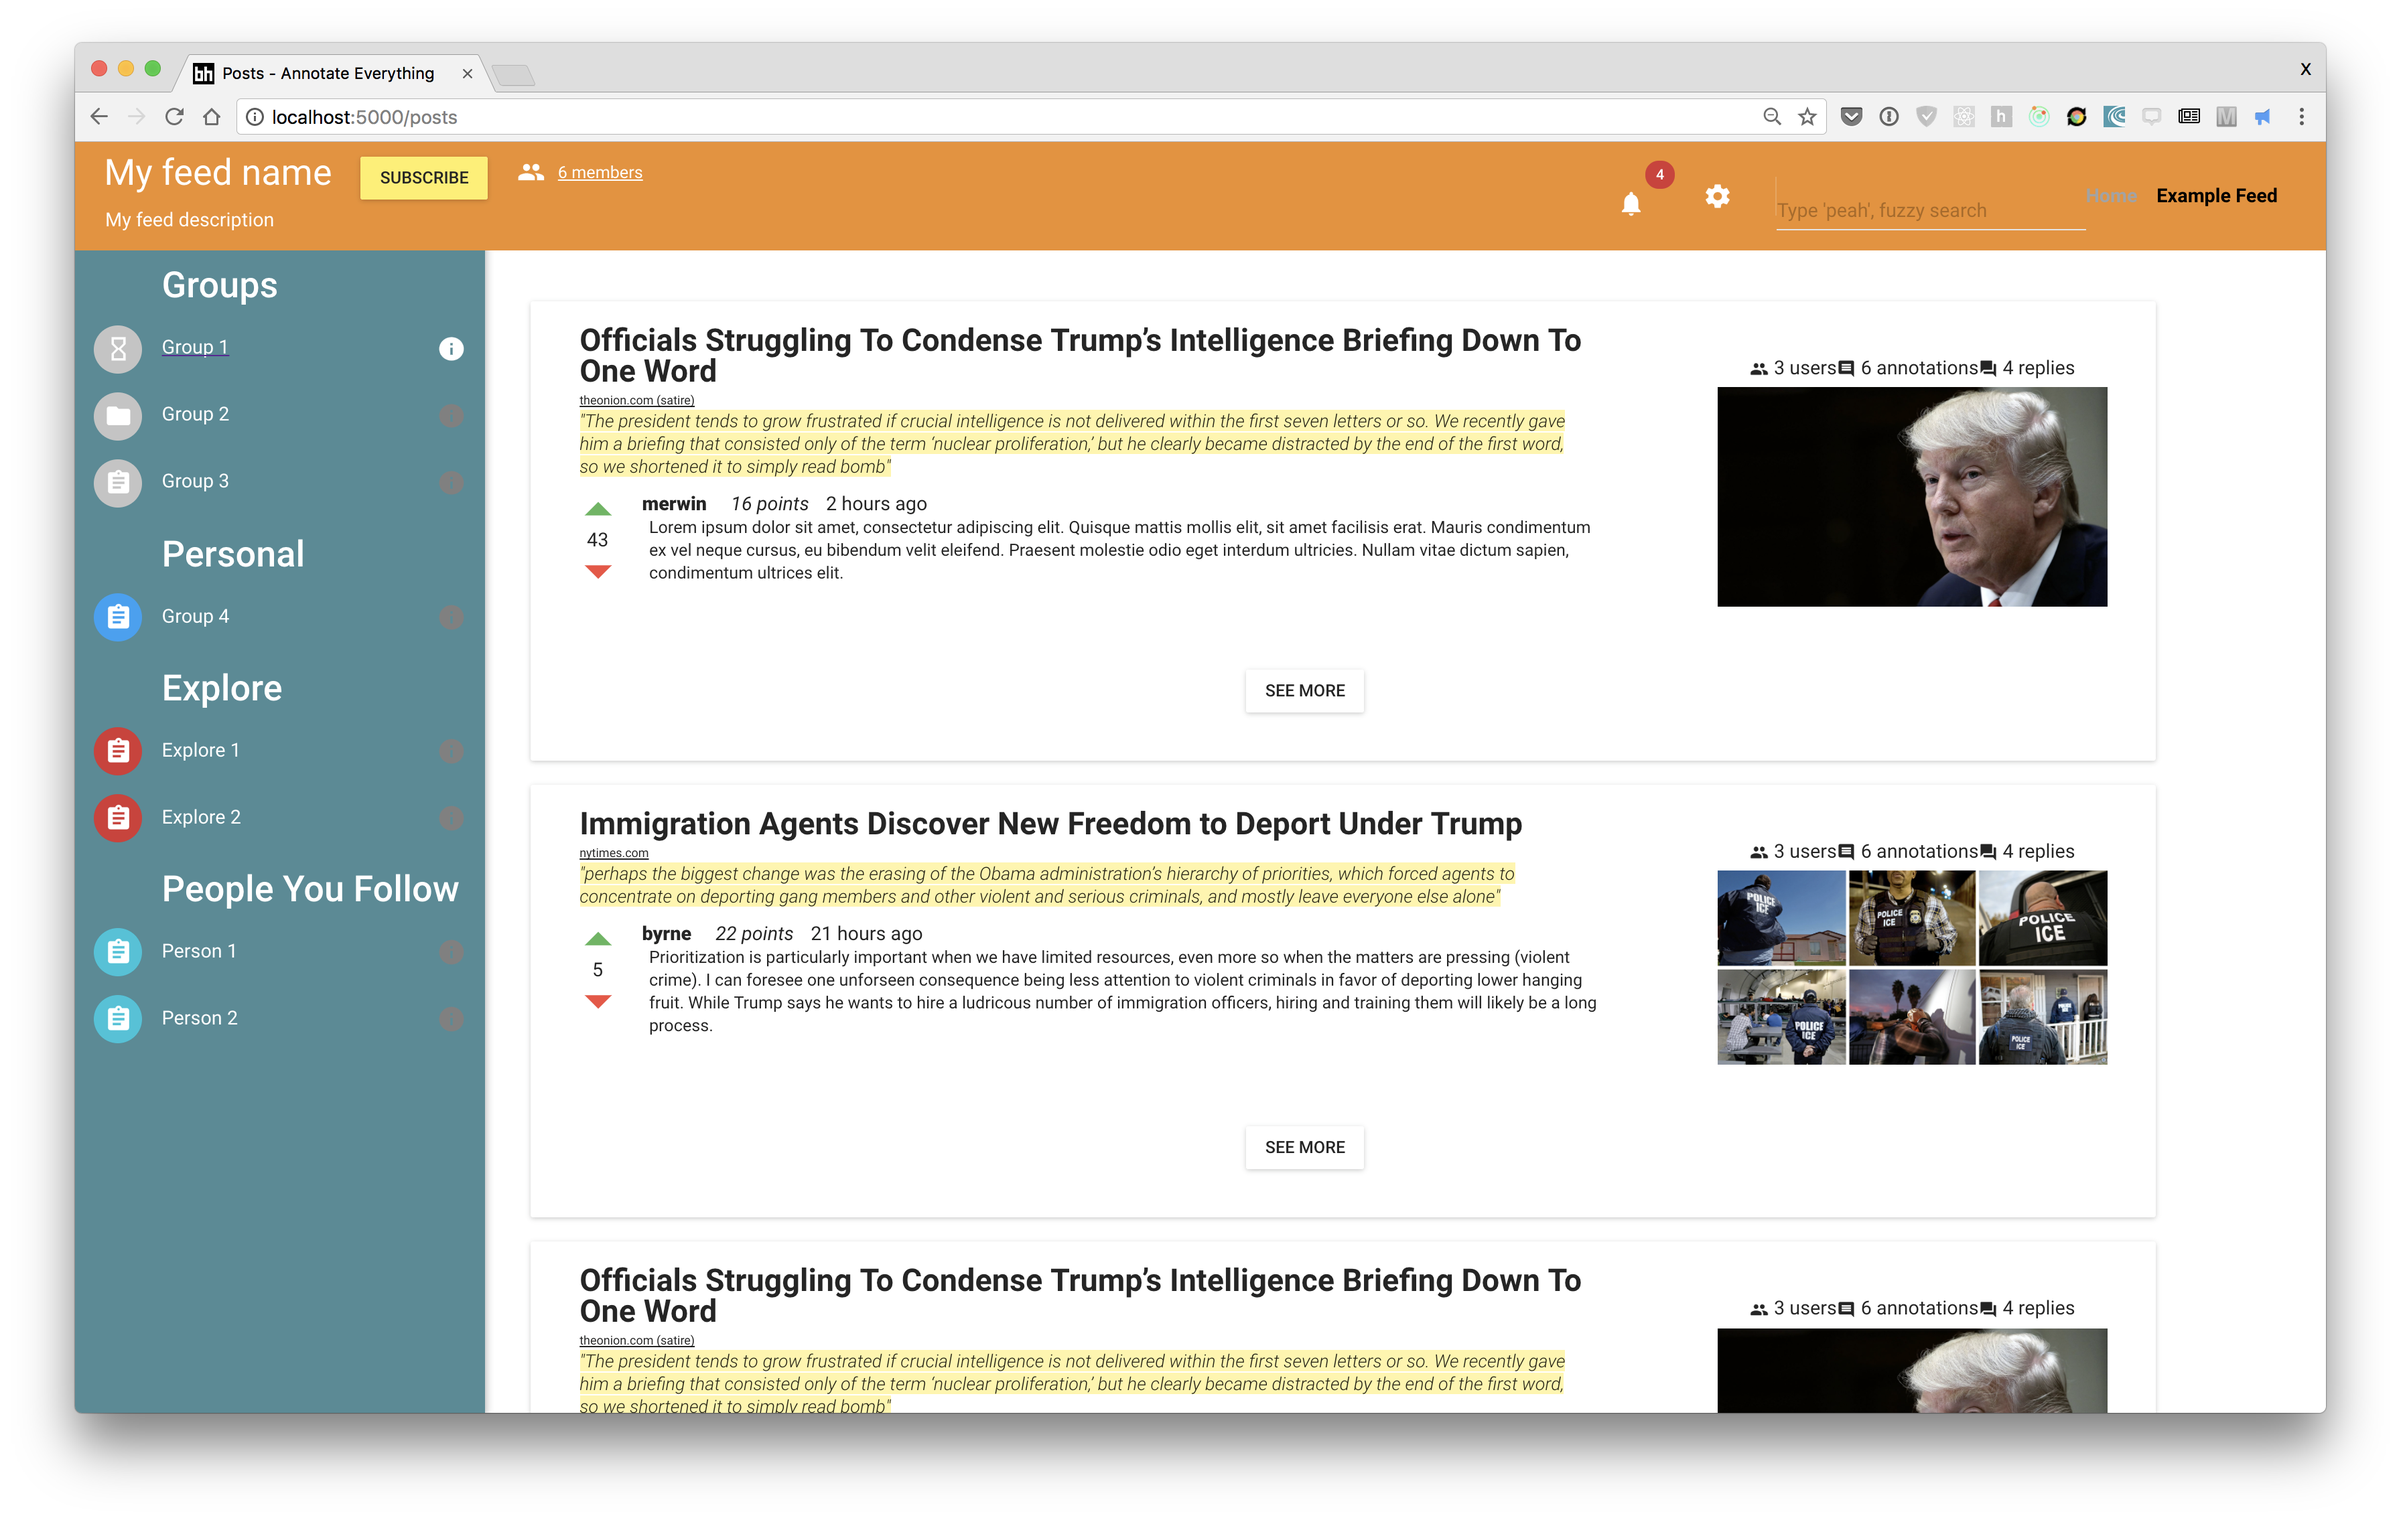
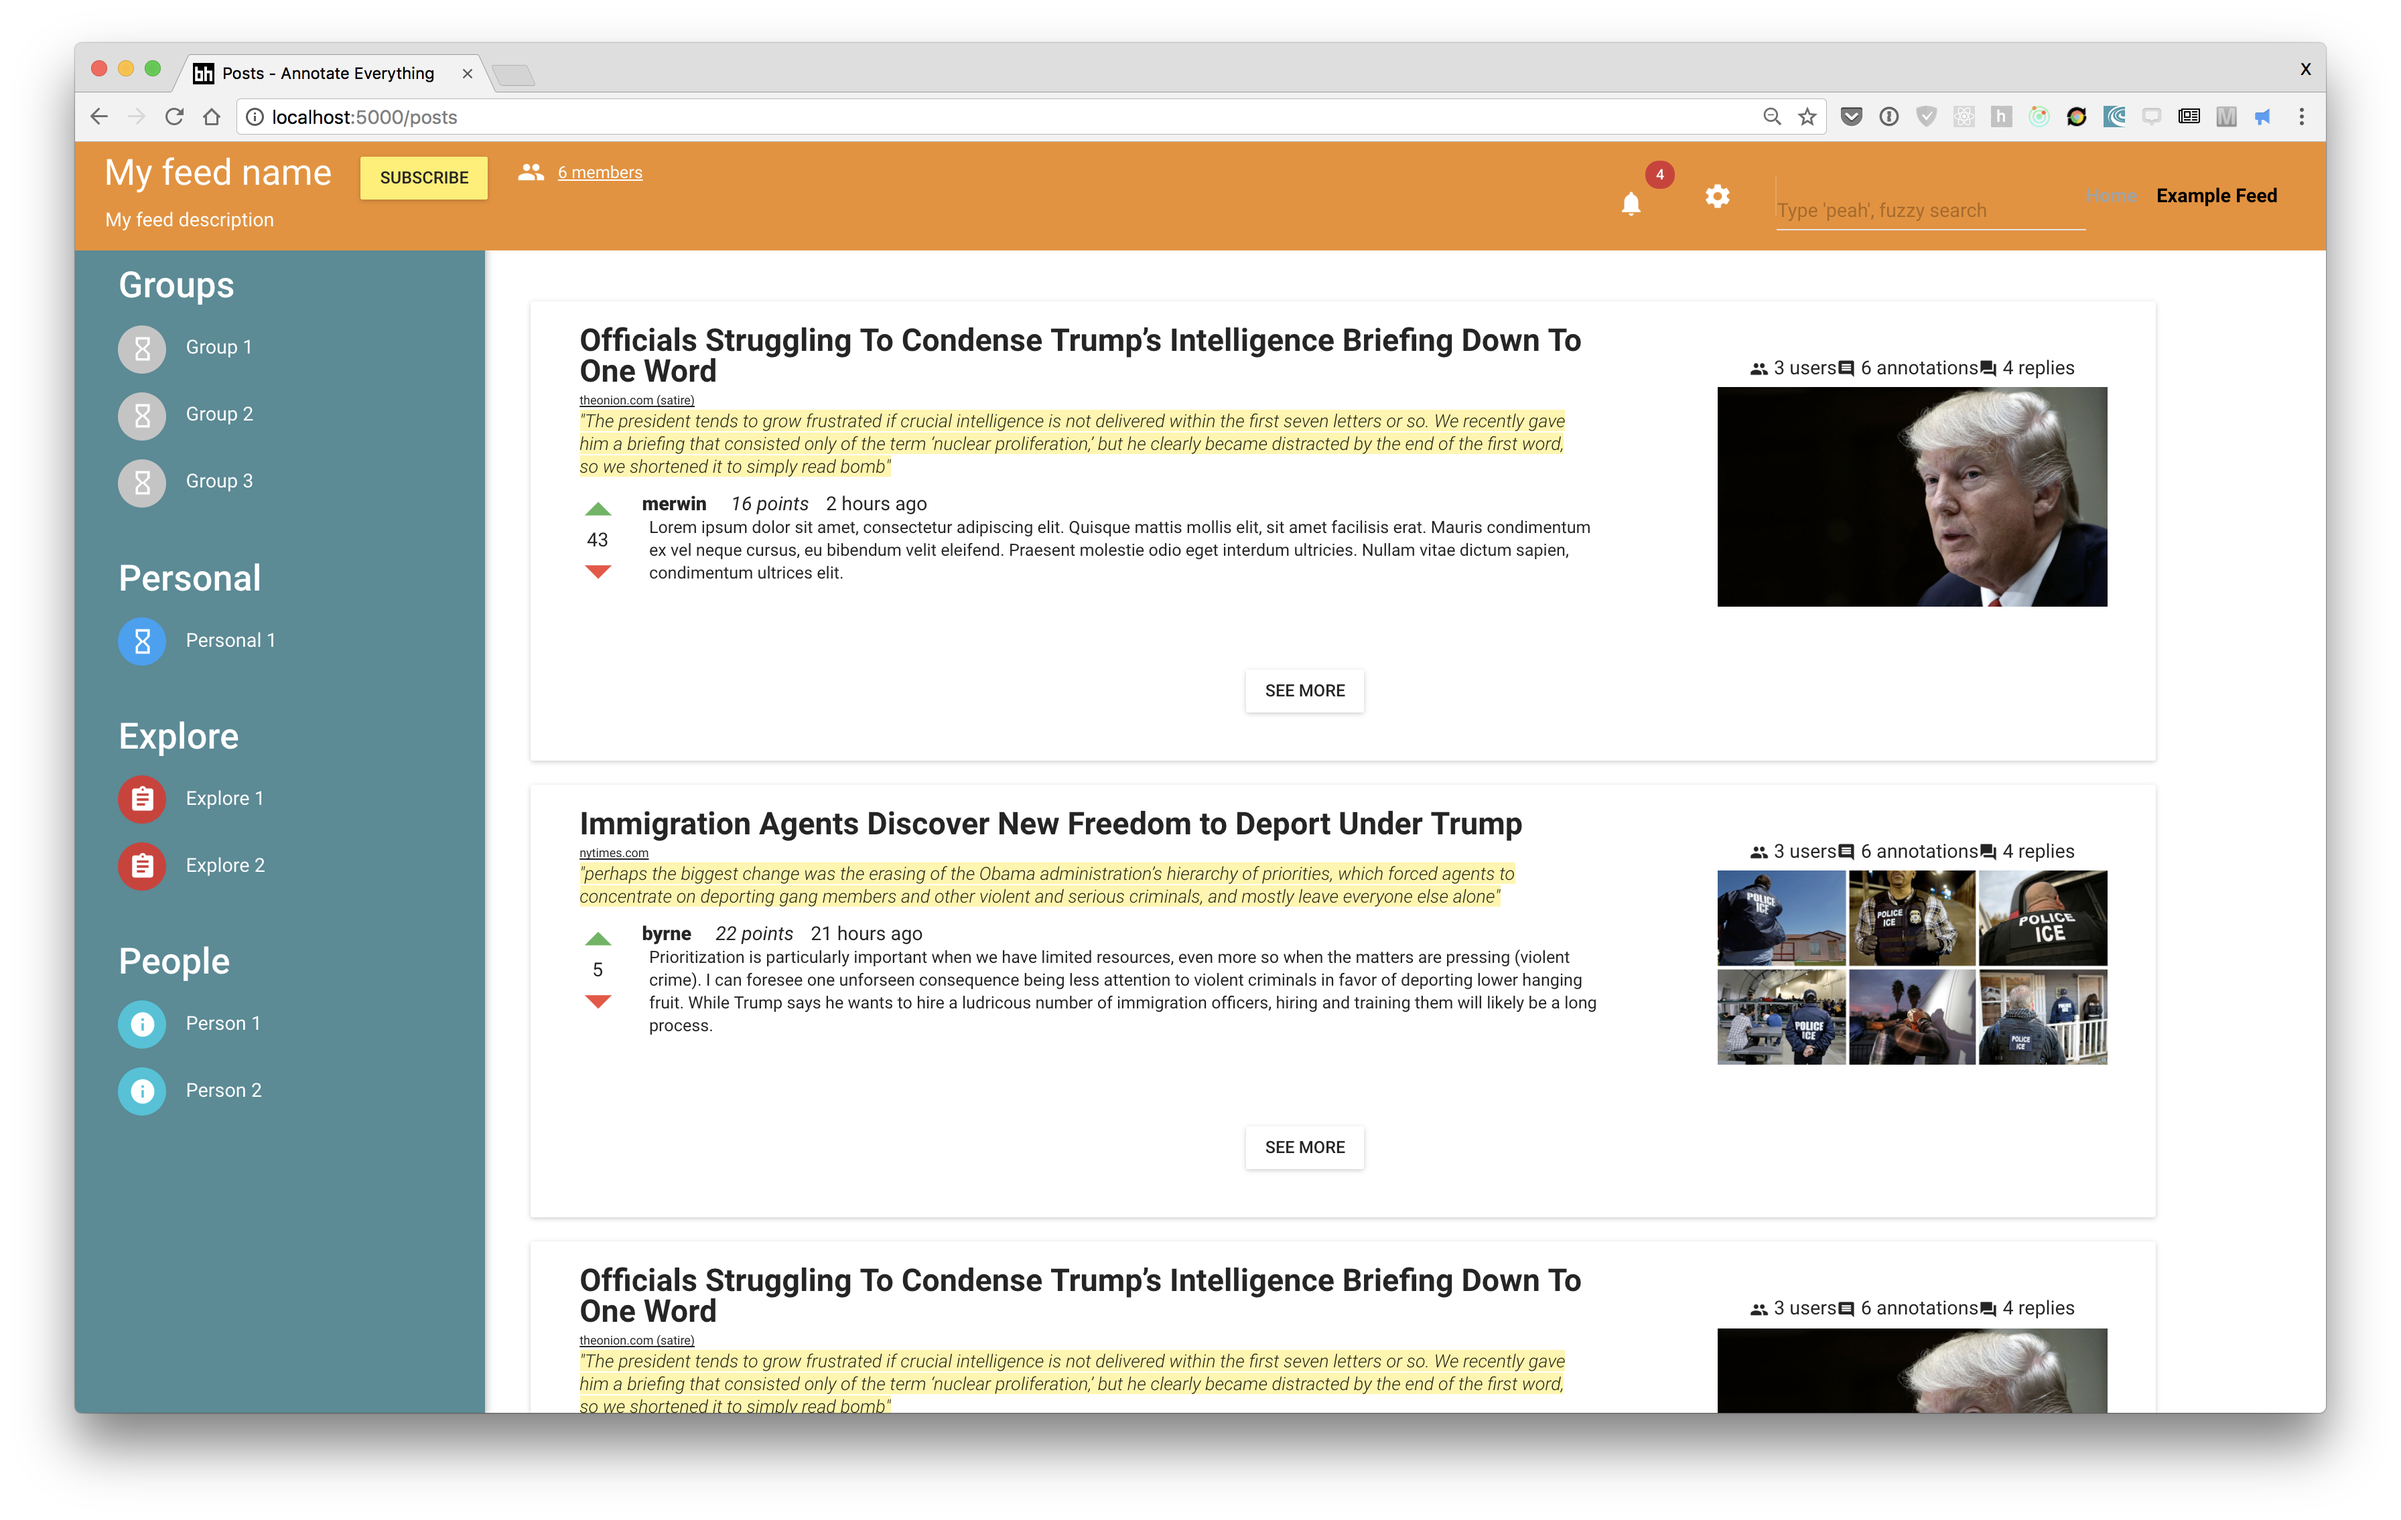
successfully made left nav load from json file

Changed region(s): [[0.0312, 0.185, 0.1875, 0.6167], [0.0312, 0.6167, 0.0938, 0.7401]]

diff --git a/common/components/LeftNav.js b/common/components/LeftNav.js
@@ -5,13 +5,14 @@ import getMuiTheme from 'material-ui/styles/getMuiTheme';
 import { deepOrange600, red700, cyan500, white, blue500 } from 'material-ui/styles/colors';
 // blueGrey700
 import Drawer from 'material-ui/Drawer';
+// import Divider from 'material-ui/Divider';
 import MenuItem from 'material-ui/MenuItem';
 import { List, ListItem } from 'material-ui/List';
 import ActionInfo from 'material-ui/svg-icons/action/info';
 import Subheader from 'material-ui/Subheader';
 import Avatar from 'material-ui/Avatar';
 import { Link } from 'react-router';
-import FileFolder from 'material-ui/svg-icons/file/folder';
+// import FileFolder from 'material-ui/svg-icons/file/folder';
 import ActionAssignment from 'material-ui/svg-icons/action/assignment';
 // import EditorInsertChart from 'material-ui/svg-icons/editor/insert-chart';
 import HourglassIcon from 'material-ui/svg-icons/action/hourglass-empty';
@@ -36,11 +37,19 @@ const styles = StyleSheet.create({
   },
   drawer: {
     position: 'fixed',
-    top: 90,
-    left: 0,
-    zIndex: '30',
+    // top: 90,
+    zIndex: 30,
     color: white,
     fontFamily: 'Roboto, sans-serif',
+  },
+  firstSubheader: {
+    color: white,
+    fontSize: 30,
+  },
+  subheader: {
+    paddingTop: 20,
+    color: white,
+    fontSize: 30,
   },
 });
 
@@ -49,69 +58,63 @@ export default class LeftNav extends React.Component {
   constructor(props) {
     super(props);
     this.groupList = props.groupList;
+    this.personalList = props.personalList;
+    this.exploreList = props.exploreList;
+    this.followingList = props.followingList;
   }
 
   render() {
     return (
       <MuiThemeProvider muiTheme={muiTheme}>
         <div>
-          <Drawer docked width={340} containerStyle={{ backgroundColor: '#44808C' }} className={css(styles.drawer)}>
+          <Drawer docked width={340} containerStyle={{ backgroundColor: '#44808C', paddingLeft: 20 }} className={css(styles.drawer)}>
             <MenuItem>Hidden 1</MenuItem>
             <MenuItem>Hidden 2</MenuItem>
             <List>
-              <Subheader inset style={{ color: white, fontSize: 30 }}>Groups</Subheader>
-              <Link to={'/posts'}>
-                <ListItem
-                  leftAvatar={<Avatar icon={<HourglassIcon />} />}
-                  rightIcon={<ActionInfo color={white} />}
-                  primaryText="Group 1"
-                />
-              </Link>
-              <ListItem
-                leftAvatar={<Avatar icon={<FileFolder />} />}
-                rightIcon={<ActionInfo />}
-                primaryText="Group 2"
-              />
-              <ListItem
-                leftAvatar={<Avatar icon={<ActionAssignment />} />}
-                rightIcon={<ActionInfo />}
-                primaryText="Group 3"
-              />
+              <Subheader className={css(styles.firstSubheader)}>Groups</Subheader>
+              {this.groupList.map(d => (
+                <Link to={d.groupLink} style={{ textDecoration: 'none' }}>
+                  <ListItem
+                    leftAvatar={<Avatar icon={<HourglassIcon />} />}
+                    primaryText={d.groupName}
+                  />
+                </Link>
+              ))}
             </List>
-            {/* <Divider /> */}
+            {/* <Divider */}
             <List>
-              <Subheader inset style={{ color: white, fontSize: 30 }}>Personal</Subheader>
-              <ListItem
-                leftAvatar={<Avatar icon={<ActionAssignment />} backgroundColor={blue500} />}
-                rightIcon={<ActionInfo />}
-                primaryText="Group 4"
-              />
+              {/* removed inset */}
+              <Subheader className={css(styles.subheader)}>Personal</Subheader>
+              {this.personalList.map(d => (
+                <Link to={d.groupLink} style={{ textDecoration: 'none' }}>
+                  <ListItem
+                    leftAvatar={<Avatar icon={<HourglassIcon />} backgroundColor={blue500} />}
+                    primaryText={d.groupName}
+                  />
+                </Link>
+              ))}
             </List>
             <List>
-              <Subheader inset style={{ color: white, fontSize: 30 }}>Explore</Subheader>
-              <ListItem
-                leftAvatar={<Avatar icon={<ActionAssignment />} backgroundColor={red700} />}
-                rightIcon={<ActionInfo />}
-                primaryText="Explore 1"
-              />
-              <ListItem
-                leftAvatar={<Avatar icon={<ActionAssignment />} backgroundColor={red700} />}
-                rightIcon={<ActionInfo />}
-                primaryText="Explore 2"
-              />
+              <Subheader className={css(styles.subheader)}>Explore</Subheader>
+              {this.exploreList.map(d => (
+                <Link to={d.groupLink} style={{ textDecoration: 'none' }}>
+                  <ListItem
+                    leftAvatar={<Avatar icon={<ActionAssignment />} backgroundColor={red700} />}
+                    primaryText={d.groupName}
+                  />
+                </Link>
+                ))}
             </List>
             <List>
-              <Subheader inset style={{ color: white, fontSize: 30 }}>People You Follow</Subheader>
-              <ListItem
-                leftAvatar={<Avatar icon={<ActionAssignment />} backgroundColor={cyan500} />}
-                rightIcon={<ActionInfo />}
-                primaryText="Person 1"
-              />
-              <ListItem
-                leftAvatar={<Avatar icon={<ActionAssignment />} backgroundColor={cyan500} />}
-                rightIcon={<ActionInfo />}
-                primaryText="Person 2"
-              />
+              <Subheader className={css(styles.subheader)}>People</Subheader>
+              {this.followingList.map(d => (
+                <Link to={d.groupLink} style={{ textDecoration: 'none' }}>
+                  <ListItem
+                    leftAvatar={<Avatar icon={<ActionInfo />} backgroundColor={cyan500} />}
+                    primaryText={d.groupName}
+                  />
+                </Link>
+                ))}
             </List>
           </Drawer>
         </div>

diff --git a/common/components/App.js b/common/components/App.js
@@ -60,17 +60,54 @@ const groupList = [
   },
 ];
 
+const personalList = [
+  {
+    id: 'xx',
+    groupName: 'Personal 1',
+    groupLink: 'posts',
+    icon: 'iconName',
+  },
+];
+
+const exploreList = [
+  {
+    id: 'xx',
+    groupName: 'Explore 1',
+    groupLink: 'posts',
+    icon: 'iconName',
+  },
+  {
+    id: 'xx',
+    groupName: 'Explore 2',
+    groupLink: 'post',
+    icon: 'iconName',
+  },
+];
+
+const followingList = [
+  {
+    id: 'xx',
+    groupName: 'Person 1',
+    groupLink: 'posts',
+    icon: 'iconName',
+  },
+  {
+    id: 'xx',
+    groupName: 'Person 2',
+    groupLink: 'posts',
+    icon: 'iconName',
+  },
+];
+
 const App = ({ children }) => (
   <div className={css(styles.root)}>
     <Helmet title="Notist" titleTemplate="%s - Annotate Everything" />
     <LeftNav
       groupList={groupList}
+      personalList={personalList}
+      exploreList={exploreList}
+      followingList={followingList}
     />
-    {/*
-    personalList={personalList}
-    exploreList={exploreList}
-    followingList={followingList}
-    */}
     <div className={css(styles.shiftRight)}>
       <TopNav
         currentFeedName="My feed name"
